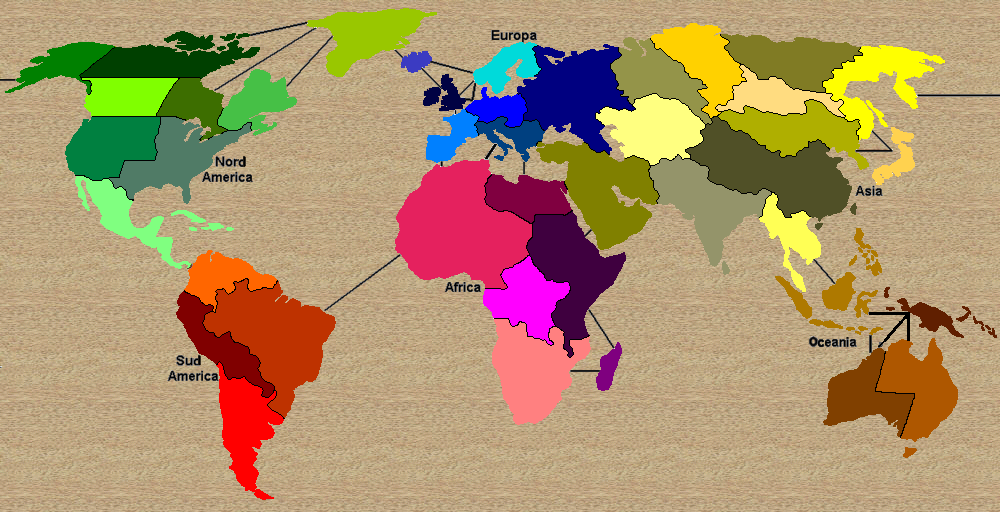
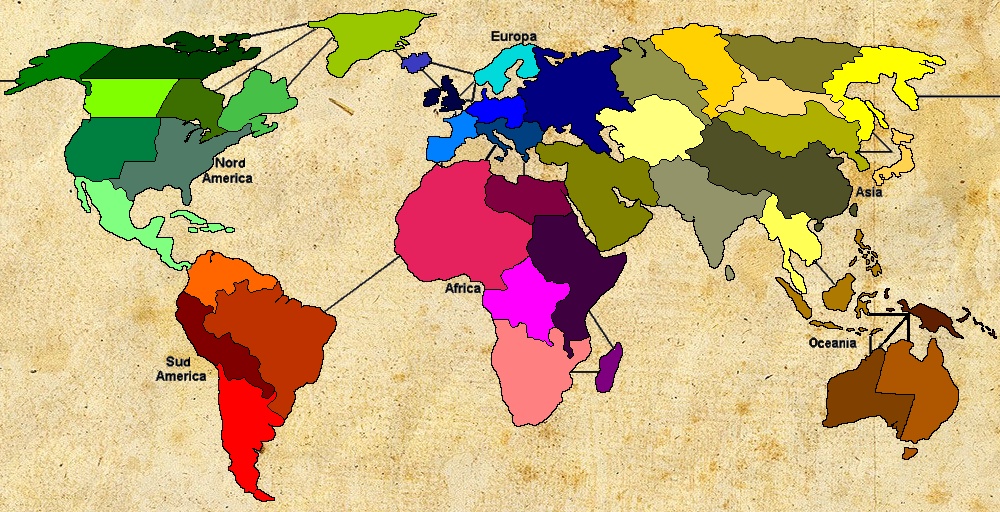
mappa aggiornata

diff --git a/Risiko/src/gui/GUI.java b/Risiko/src/gui/GUI.java
@@ -7,6 +7,7 @@ import java.awt.Color;
 import java.awt.Component;
 import java.awt.Dimension;
 import java.awt.Font;
+import java.awt.image.BufferedImage;
 import java.io.BufferedReader;
 import java.io.File;
 import java.io.FileNotFoundException;
@@ -45,11 +46,22 @@ public class GUI extends JFrame implements GameObserver {
     private CardBonusDialog cardBonusDialog;
 
     public GUI(Map<String, String> players, Map<String, String> playersColor) throws Exception {
+        initBackground();
         initComponents();
-        labelMap.setIcon(new javax.swing.ImageIcon(ImageIO.read(new File("images/risikoA.png"))));
+        labelMap.setIcon(new javax.swing.ImageIcon(ImageIO.read(new File("images/risiko.png"))));
         countryLabelMap = new HashMap<>();
         colorCountryNameMap = readColorTextMap("files/ColorCountry.txt");
         init(players, playersColor);
+    }
+    
+    private void initBackground() {
+        BufferedImage backgroundImage;
+        try {
+            backgroundImage = ImageIO.read(new File("images/background.jpg"));
+            this.setContentPane(new BackgroundPane(backgroundImage));
+        } catch (IOException ex) {
+            System.out.println("loginBackground.png not found");
+        }
     }
 
     /**
